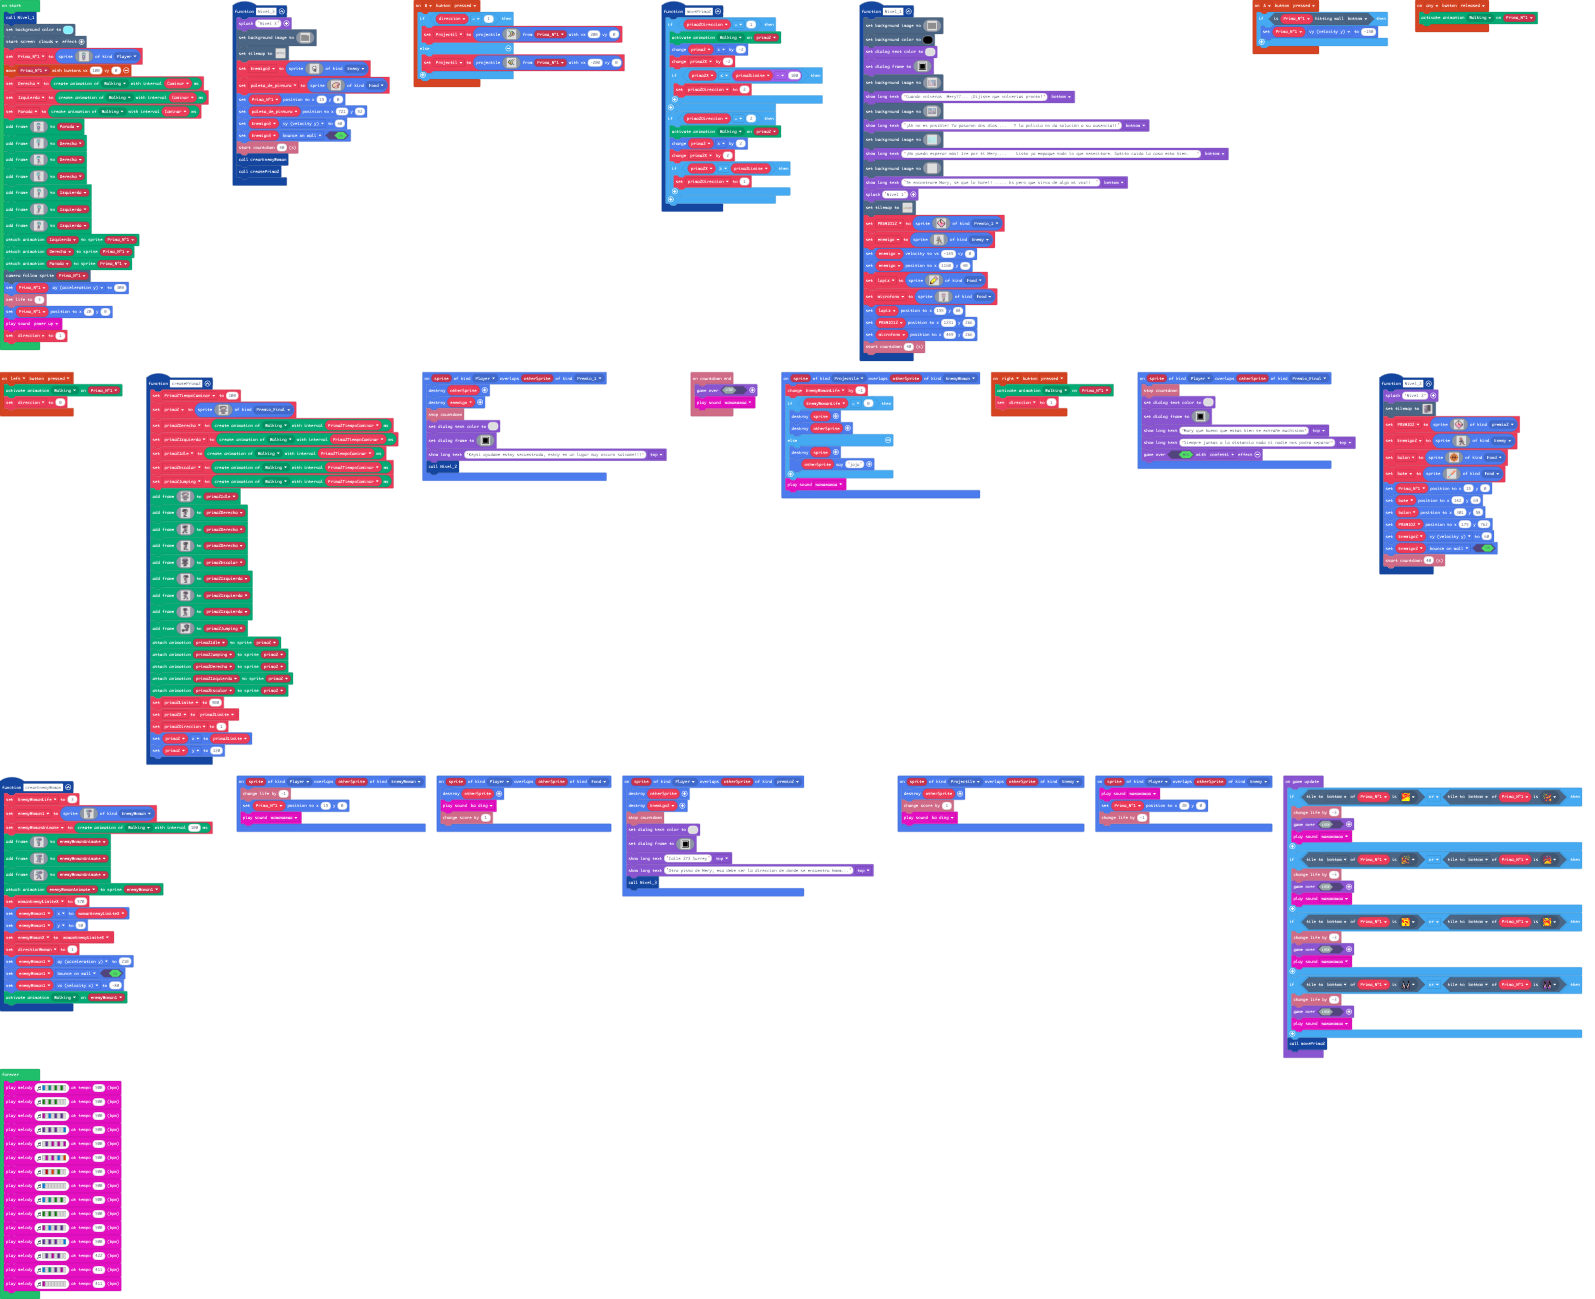
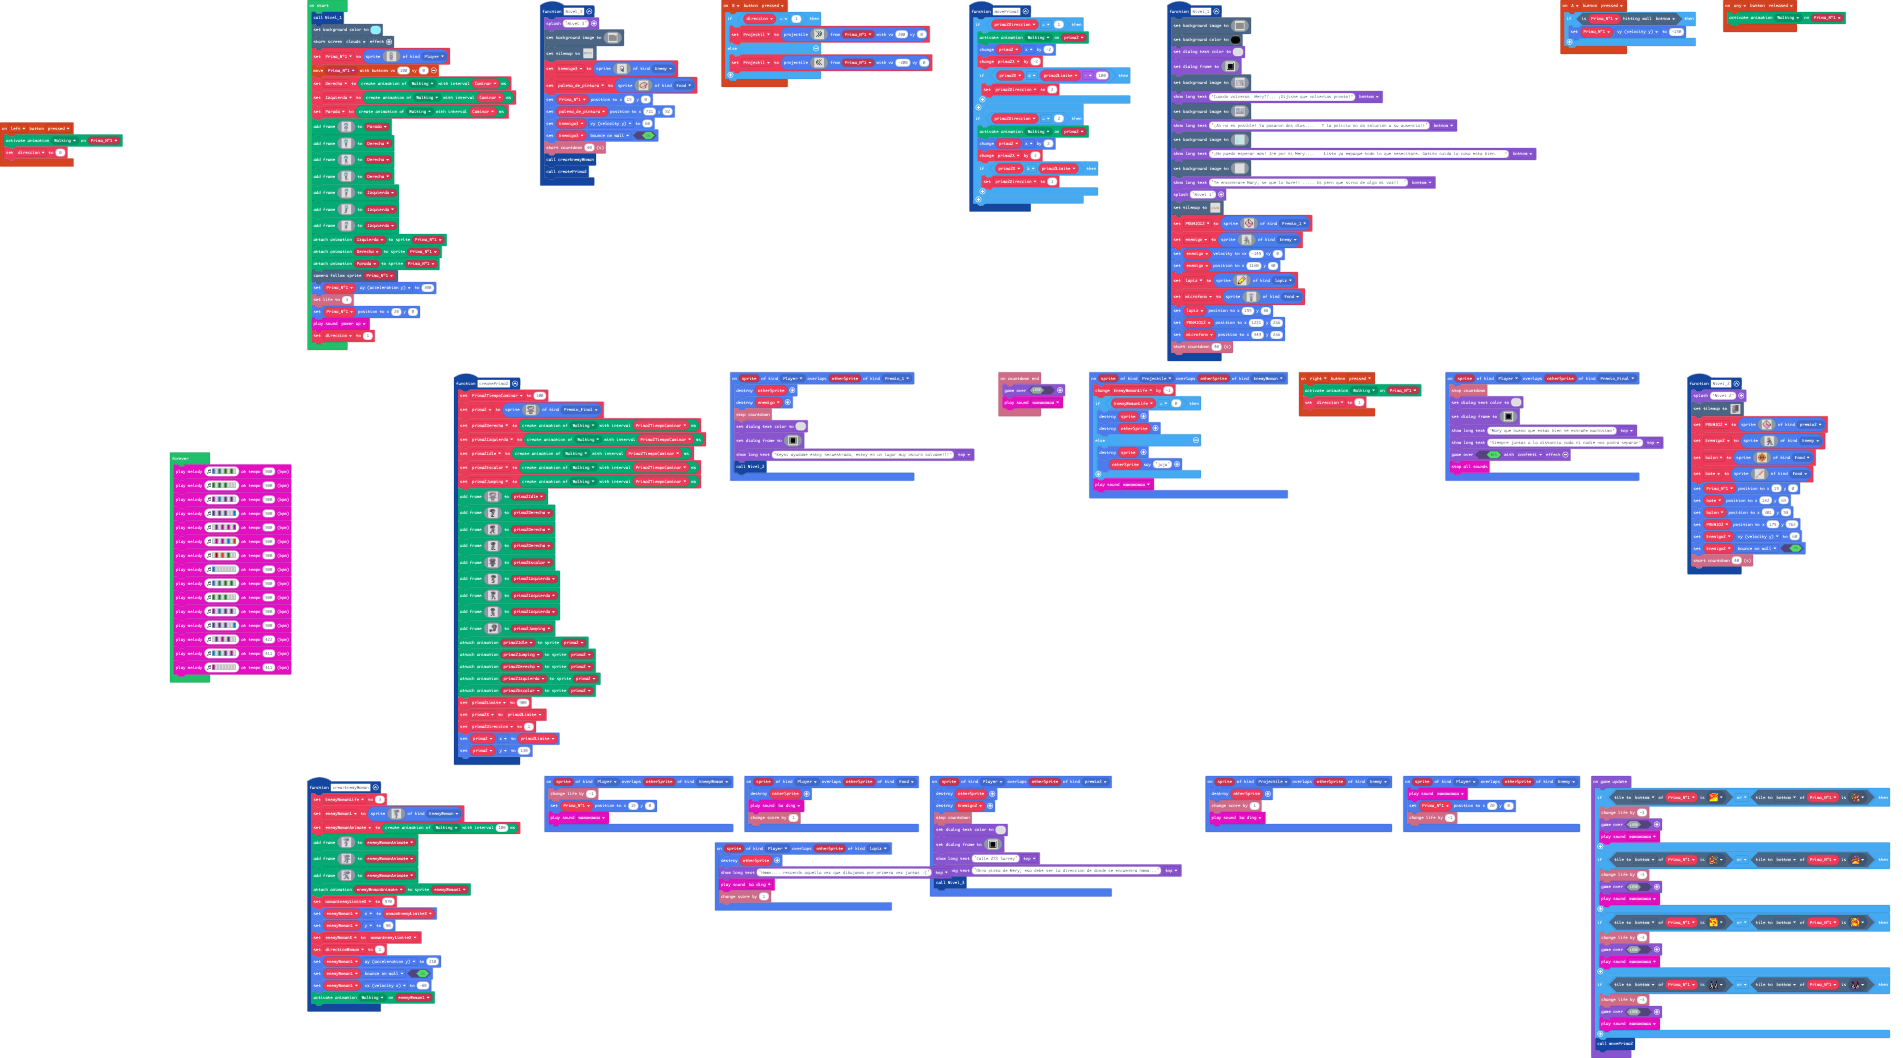
Update main.blocks, main.ts

diff --git a/main.ts b/main.ts
@@ -22,6 +22,7 @@ namespace SpriteKind {
     export const premio3 = SpriteKind.create()
     export const Premio_1 = SpriteKind.create()
     export const EnemyWoman = SpriteKind.create()
+    export const lapiz = SpriteKind.create()
 }
 function Nivel_3 () {
     game.splash("Nivel 3")
@@ -225,6 +226,12 @@ function Nivel_3 () {
     crearEnemyWoman()
     createPrima2()
 }
+sprites.onOverlap(SpriteKind.Player, SpriteKind.lapiz, function (sprite, otherSprite) {
+    otherSprite.destroy()
+    game.showLongText("Hmmm.... recuerdo aquella vez que dibujamos por primera vez juntas :(", DialogLayout.Top)
+    music.baDing.play()
+    info.changeScoreBy(1)
+})
 controller.B.onEvent(ControllerButtonEvent.Pressed, function () {
     if (direccion == 1) {
         Projectil = sprites.createProjectileFromSprite(img`
@@ -1044,7 +1051,7 @@ function Nivel_1 () {
         f f f f 4 4 4 d f . . . . . . . . . . . . . 
         f f f f f 4 4 f . . . . . . . . . . . . . . 
         f f f f f f f . . . . . . . . . . . . . . . 
-        `, SpriteKind.Food)
+        `, SpriteKind.lapiz)
     microfono = sprites.create(img`
         . . . . . . . . . . . . . . . . 
         . . . . . . . . . . . . . . . . 
@@ -1686,6 +1693,7 @@ sprites.onOverlap(SpriteKind.Player, SpriteKind.Premio_Final, function (sprite, 
     game.showLongText("Mary que bueno que estas bien te extrañe muchisimo", DialogLayout.Top)
     game.showLongText("Siempre juntas a la distancia nada ni nadie nos podra separar", DialogLayout.Top)
     game.over(true, effects.confetti)
+    music.stopAllSounds()
 })
 function Nivel_2 () {
     game.splash("Nivel 2")
